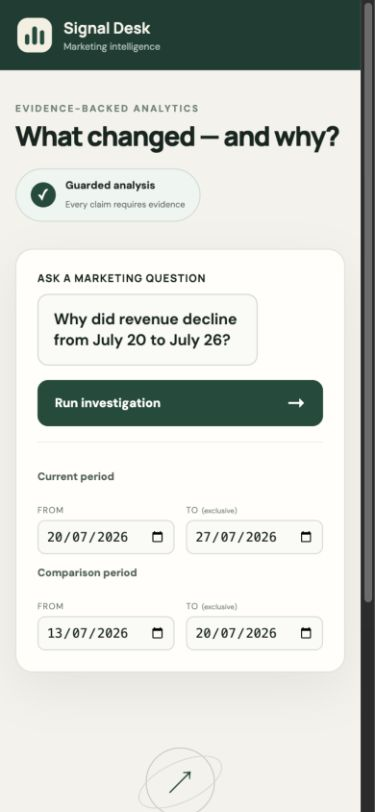
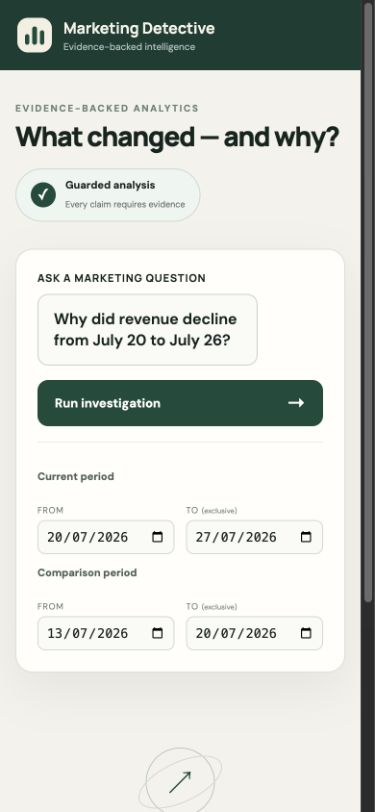
Rename dashboard to Marketing Detective

diff --git a/src/api/static/index.html b/src/api/static/index.html
@@ -3,7 +3,7 @@
 <head>
   <meta charset="utf-8">
   <meta name="viewport" content="width=device-width, initial-scale=1">
-  <title>Signal Desk — Marketing Intelligence</title>
+  <title>Marketing Detective — Evidence-Backed Intelligence</title>
   <meta name="description" content="Evidence-backed marketing investigations powered by deterministic analytics.">
   <link rel="preconnect" href="https://fonts.googleapis.com">
   <link rel="preconnect" href="https://fonts.gstatic.com" crossorigin>
@@ -13,9 +13,9 @@
 <body>
   <div class="app-shell">
     <aside class="sidebar">
-      <a class="brand" href="/" aria-label="Signal Desk home">
+      <a class="brand" href="/" aria-label="Marketing Detective home">
         <span class="brand-mark"><i></i><i></i><i></i></span>
-        <span><strong>Signal Desk</strong><small>Marketing intelligence</small></span>
+        <span><strong>Marketing Detective</strong><small>Evidence-backed intelligence</small></span>
       </a>
 
       <nav aria-label="Example investigations">
@@ -85,7 +85,7 @@
 
         <article class="panel evidence-panel"><button class="evidence-toggle" id="evidenceToggle" type="button"><span><b>Evidence &amp; audit trail</b><small id="evidenceSummary"></small></span><span class="toggle-icon">＋</span></button><div id="evidenceBody" class="evidence-body hidden"><div id="evidenceList" class="evidence-list"></div><details><summary>View raw response JSON</summary><pre id="rawJson"></pre></details></div></article>
       </section>
-      <footer>Signal Desk uses deterministic SQL and Python calculations. LLM planning cannot calculate or modify evidence.</footer>
+      <footer>Marketing Detective uses deterministic SQL and Python calculations. LLM planning cannot calculate or modify evidence.</footer>
     </main>
   </div>
   <script src="/static/app.js" defer></script>

diff --git a/tests/integration/test_api.py b/tests/integration/test_api.py
@@ -22,7 +22,7 @@ def test_health_reports_loaded_database():
 def test_dashboard_and_static_assets_are_served():
     response = client.get("/")
     assert response.status_code == 200
-    assert "Signal Desk" in response.text
+    assert "Marketing Detective" in response.text
     assert 'id="investigationForm"' in response.text
     stylesheet = client.get("/static/styles.css")
     assert stylesheet.status_code == 200

diff --git a/README.md b/README.md
@@ -59,7 +59,7 @@ because they can be reproduced from the committed data.
 
 ## API
 
-After starting Uvicorn, open `http://127.0.0.1:8000/` for the Signal Desk web dashboard or
+After starting Uvicorn, open `http://127.0.0.1:8000/` for the Marketing Detective web dashboard or
 `http://127.0.0.1:8000/docs` for interactive API documentation.
 Available endpoints include `GET /health`, `GET /metrics`, `GET /incidents`,
 `POST /investigations/revenue`, and `POST /investigations/ask`.

diff --git a/Dashboard WEB UI/README.md b/Dashboard WEB UI/README.md
@@ -1,6 +1,6 @@
-# Signal Desk Dashboard Web UI
+# Marketing Detective Dashboard Web UI
 
-Signal Desk is the browser interface for the Multi-Agent Marketing Data Scientist. It runs inside
+Marketing Detective is the browser interface for the Multi-Agent Marketing Data Scientist. It runs inside
 the existing FastAPI application and displays real, evidence-validated investigation results from
 DuckDB.
 
